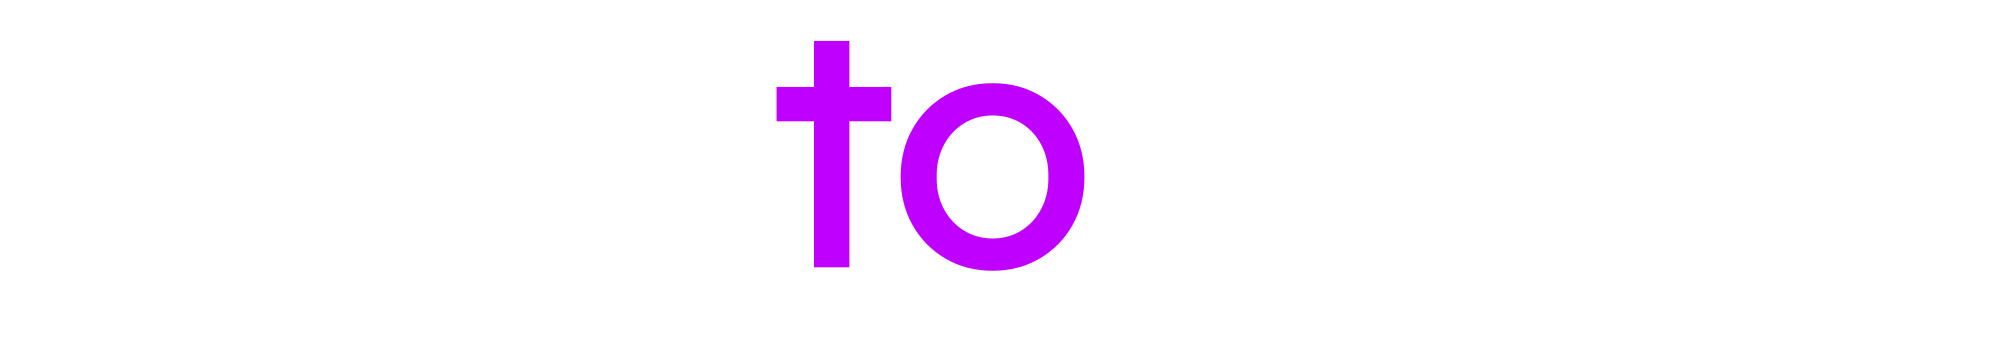
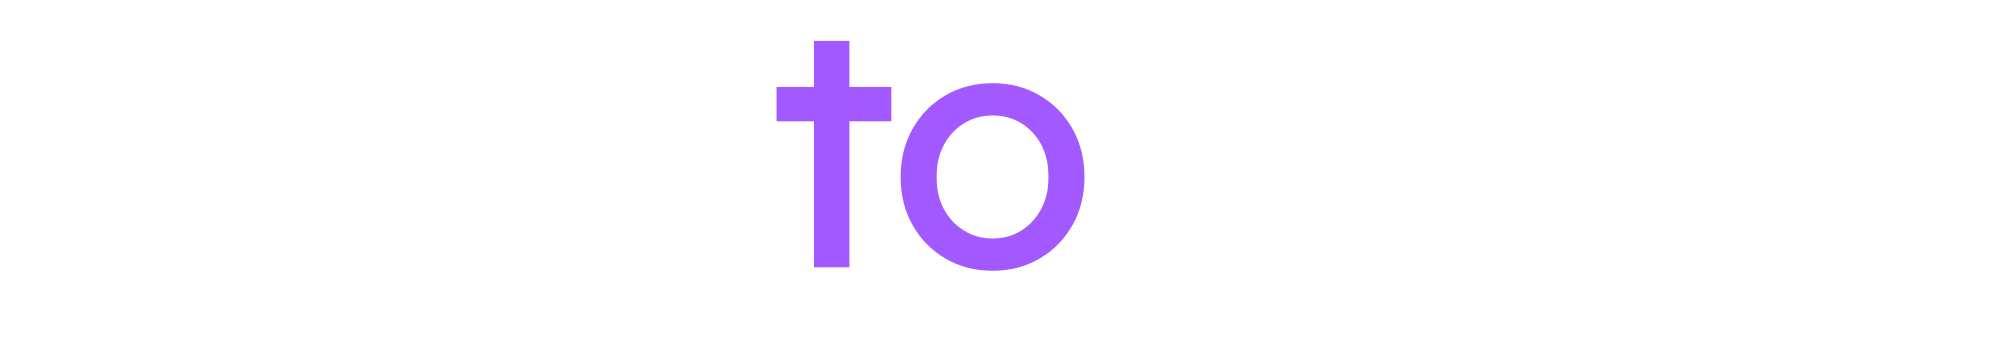
color update

Changed region(s): [[0.372, 0.0932, 0.558, 0.7768]]

diff --git a/app/components/FilterMenu.tsx b/app/components/FilterMenu.tsx
@@ -27,11 +27,15 @@ export default function FilterMenu({ filters, setFilters, onClose }: FilterMenuP
     language: Object.values(languageMap),
   }
 
+  const priorityLanguages = ['English', 'Hindi', 'Korean', 'Japanese'];
+  const otherLanguages = options.language.filter(lang => !priorityLanguages.includes(lang));
+  const sortedLanguages = [...priorityLanguages, ...otherLanguages.sort()];
+
   const filteredGenres = options.genre.filter(genre => 
     genre.toLowerCase().includes(genreSearch.toLowerCase())
   )
 
-  const filteredLanguages = options.language.filter(language => 
+  const filteredLanguages = sortedLanguages.filter(language => 
     language.toLowerCase().includes(languageSearch.toLowerCase())
   )
 
@@ -149,7 +153,7 @@ export default function FilterMenu({ filters, setFilters, onClose }: FilterMenuP
           <div className="pt-4 space-y-3">
             <Button
               onClick={handleApplyFilters}
-              className="w-full h-12 bg-primary hover:bg-primary/90 text-white rounded-xl transition-colors flex items-center justify-center space-x-2"
+              className="w-full h-12 bg-[#A259FF] hover:bg-[#A259FF]/90 text-white rounded-xl transition-colors flex items-center justify-center space-x-2"
             >
               <Check className="h-5 w-5" />
               <span>Apply Filters</span>

diff --git a/app/components/Header.tsx b/app/components/Header.tsx
@@ -190,7 +190,7 @@ export default function Header({
             exit={{ opacity: 0, y: 20 }}
             className="fixed bottom-6 inset-x-0 z-50 flex justify-center px-4"
           >
-            <div className="bg-[#6D28D9] text-white px-4 py-2 rounded-full shadow-lg flex items-center gap-3 w-fit">
+            <div className="bg-[#A259FF] text-white px-4 py-2 rounded-full shadow-lg flex items-center gap-3 w-fit">
               <span className="text-sm font-medium whitespace-nowrap">Filters on, magic unlocked!</span>
               <Button
                 variant="ghost"

diff --git a/app/layout.tsx b/app/layout.tsx
@@ -11,7 +11,7 @@ export const metadata: Metadata = {
   title: "WhatToBinge? Your Next Obsession Starts Here",
   description: "Discover your next favorite movies and TV shows with What To Binge. Get personalized recommendations, explore trending content, and find the best entertainment across all major streaming platforms.",
   icons: {
-    icon: "/favicon.svg",
+    icon: "/favicon.ico",
   },
   openGraph: {
     title: "WhatToBinge? Your Next Obsession Starts Here",
